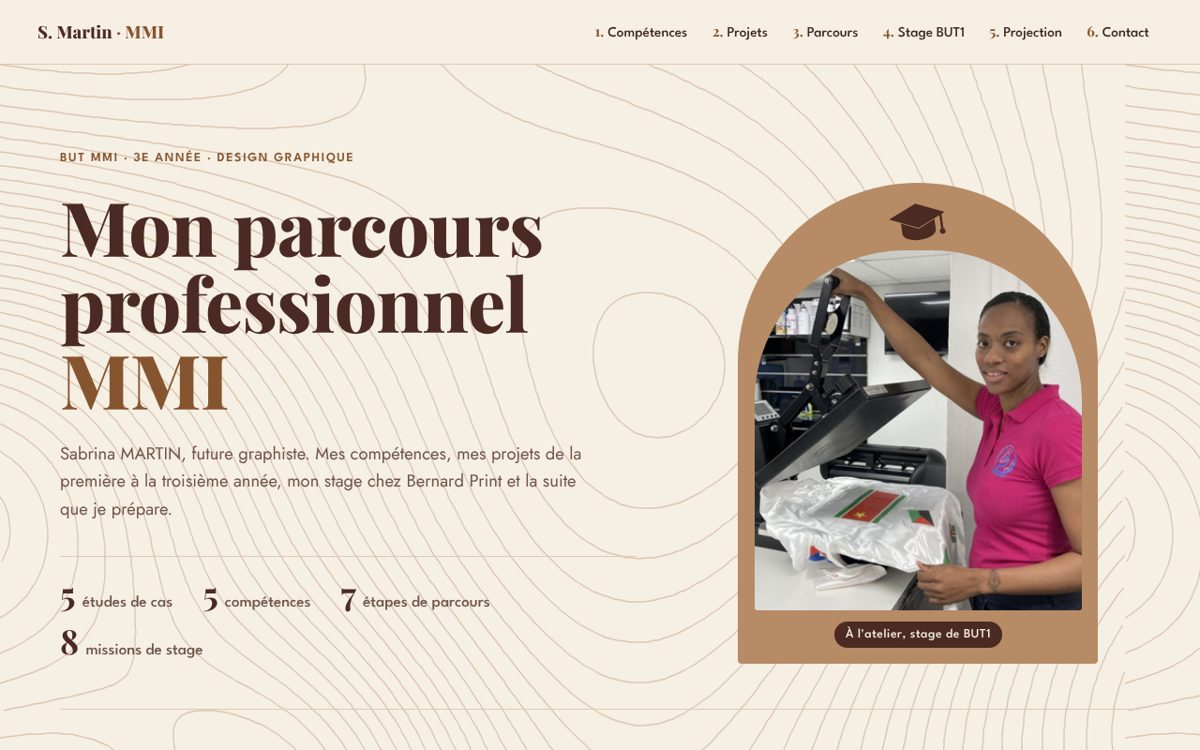
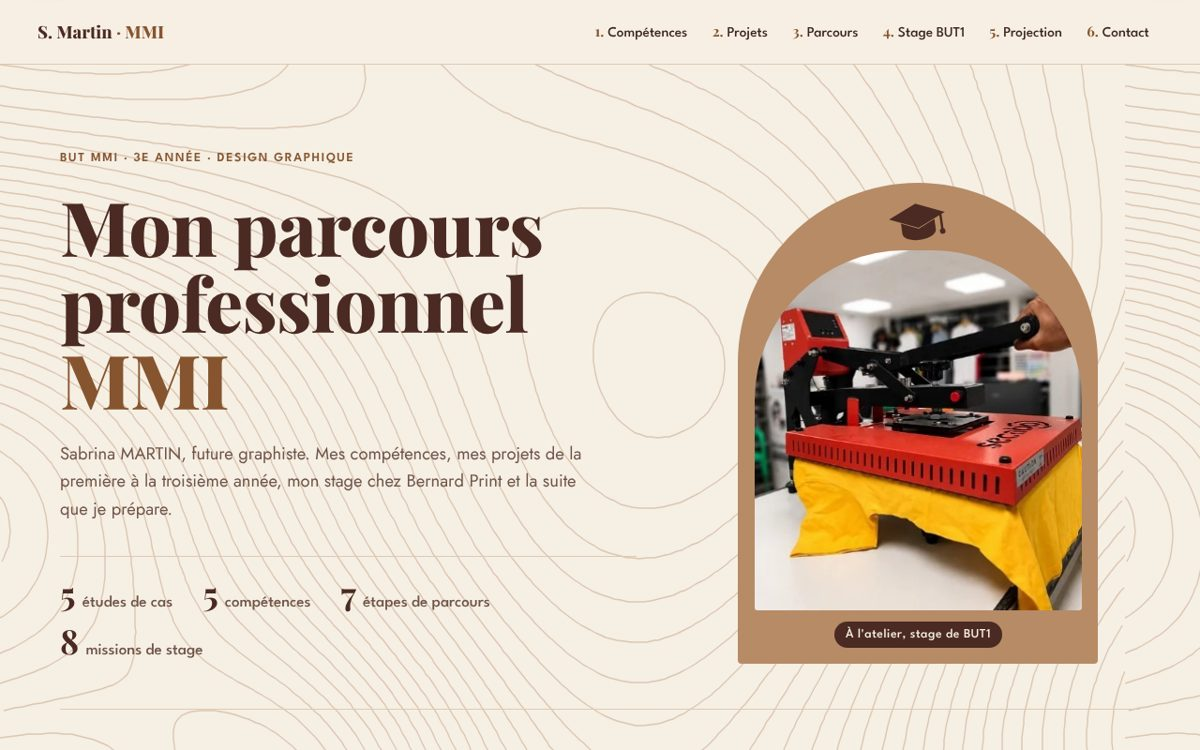
Nouvelle photo d'accueil (presse à chaud) et aperçu du portail
Claude-Session: https://claude.ai/code/session_01Kvy4QBM7GW2PURTt3djX1M

Changed region(s): [[0.6167, 0.3373, 0.925, 0.828]]

diff --git a/index.html b/index.html
@@ -46,7 +46,7 @@
           <path class="toque__fil" d="M57 19v15"/>
           <circle cx="57" cy="37" r="3"/>
         </svg>
-        <img src="assets/images/atelier-presse.jpg" alt="Sabrina à l'atelier de Bernard Print, devant la presse à chaud">
+        <img src="assets/images/atelier-presse.jpg" alt="Presse à chaud rouge de l'atelier Bernard Print, en train d'imprimer un t-shirt jaune">
         <figcaption>À l'atelier, stage de BUT1</figcaption>
       </figure>
     </section>

diff --git a/css/style.css b/css/style.css
@@ -242,7 +242,7 @@ main { padding-inline: var(--gouttiere); }
   width: 100%;
   aspect-ratio: 4 / 4.4;
   object-fit: cover;
-  object-position: 60% 30%;
+  object-position: 50% 50%;
   border-radius: 10rem 10rem 0.15rem 0.15rem;
 }
 .hero__arche figcaption {
